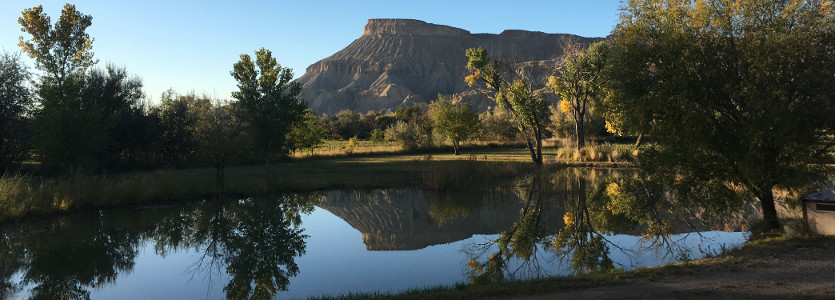
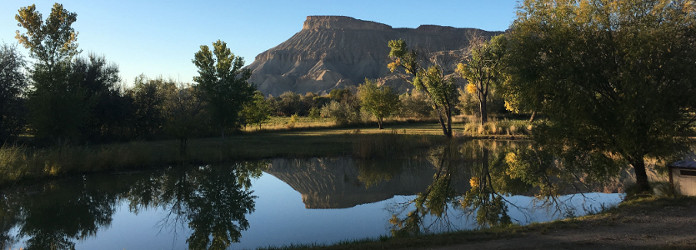
Minor sizing change to mobile scroller images

Changed region(s): [[0.7241, 0.42, 0.7543, 0.448], [0.0603, 0.196, 0.0905, 0.224], [0.0603, 0.14, 0.0905, 0.168]]

diff --git a/css/style.css b/css/style.css
@@ -407,7 +407,7 @@ section {
 @media (max-width: 767px) {
   .swiper-container {
     width: 100%;
-    height: 300px;
+    height: 250px;
     margin-left: auto;
     margin-right: auto;
   }
